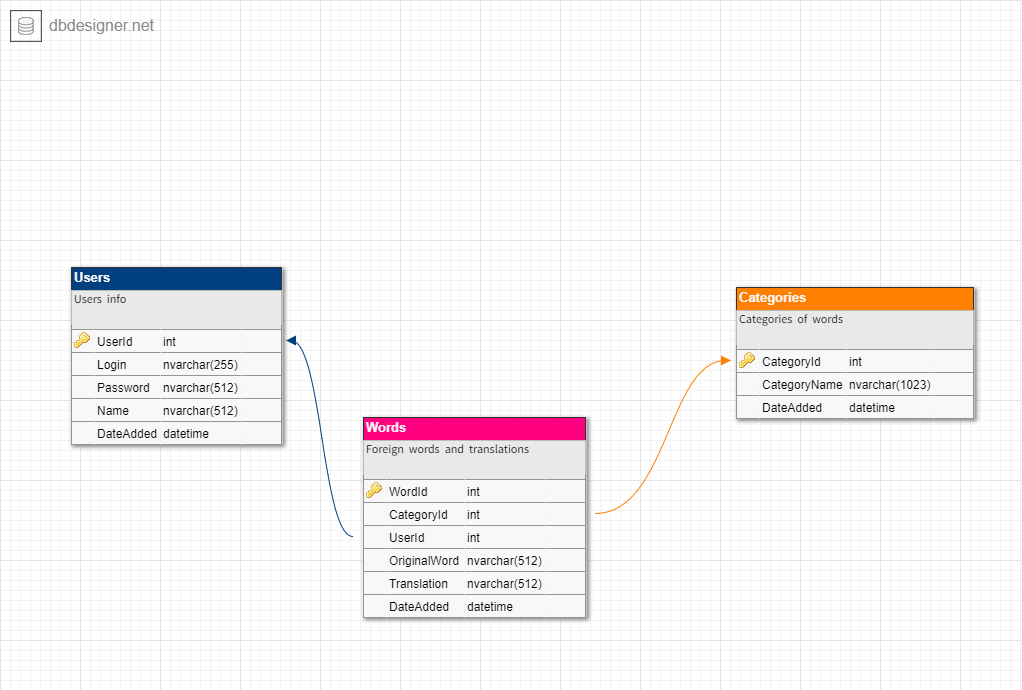
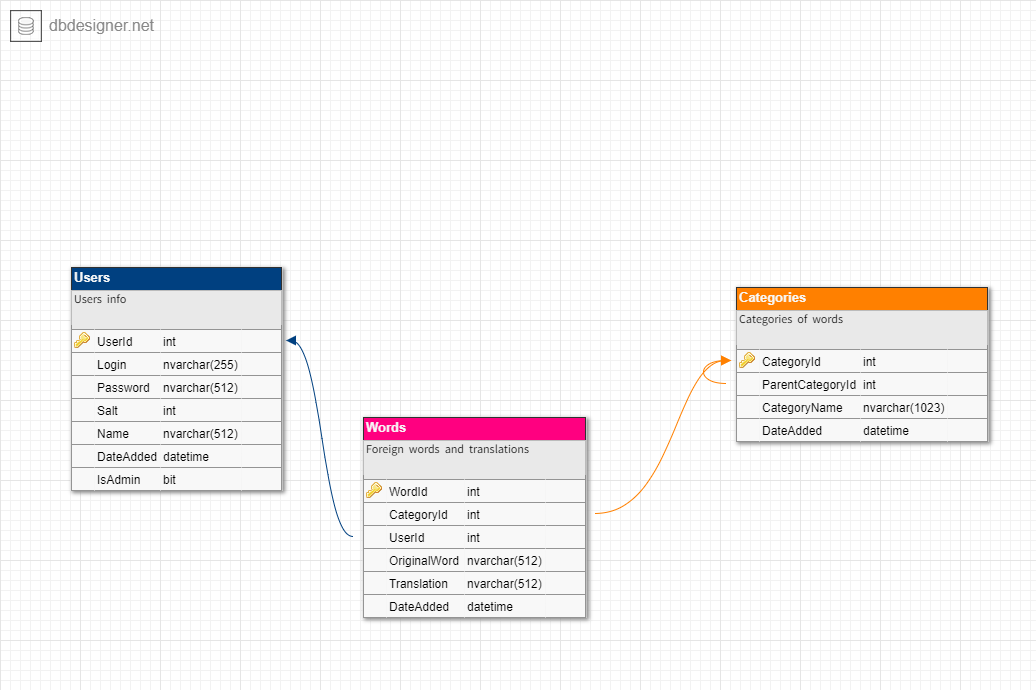
Updated DB and model - added new fields - Salt, IsAdmin, ParentCategoryId

diff --git a/Linguist.DataLayer/Model/User.cs b/Linguist.DataLayer/Model/User.cs
@@ -10,8 +10,12 @@ namespace Linguist.DataLayer.Model
 
         public string Password { get; set; }
 
+        public int Salt { get; set; }
+
         public string Name { get; set; }
 
         public DateTime DateAdded { get; set; }
+
+        public bool IsAdmin { get; set; }
     }
 }

diff --git a/Linguist.DataLayer/Repositories/IRepository.cs b/Linguist.DataLayer/Repositories/IRepository.cs
@@ -1,0 +1,15 @@
+using System.Collections.Generic;
+
+namespace Linguist.DataLayer.Repositories
+{
+    public interface IRepository<T>
+    {
+        IEnumerable<T> GetAll();
+
+        int Add(T entity);
+
+        int Edit(T entity);
+
+        int Remove(T entity);
+    }
+}

diff --git a/Linguist.DataLayer/Model/Category.cs b/Linguist.DataLayer/Model/Category.cs
@@ -6,6 +6,8 @@ namespace Linguist.DataLayer.Model
     {
         public int CategoryId { get; set; }
 
+        public int ParentCategoryId { get; set; }
+
         public string CategoryName { get; set; }
 
         public DateTime DateAdded { get; set; }
